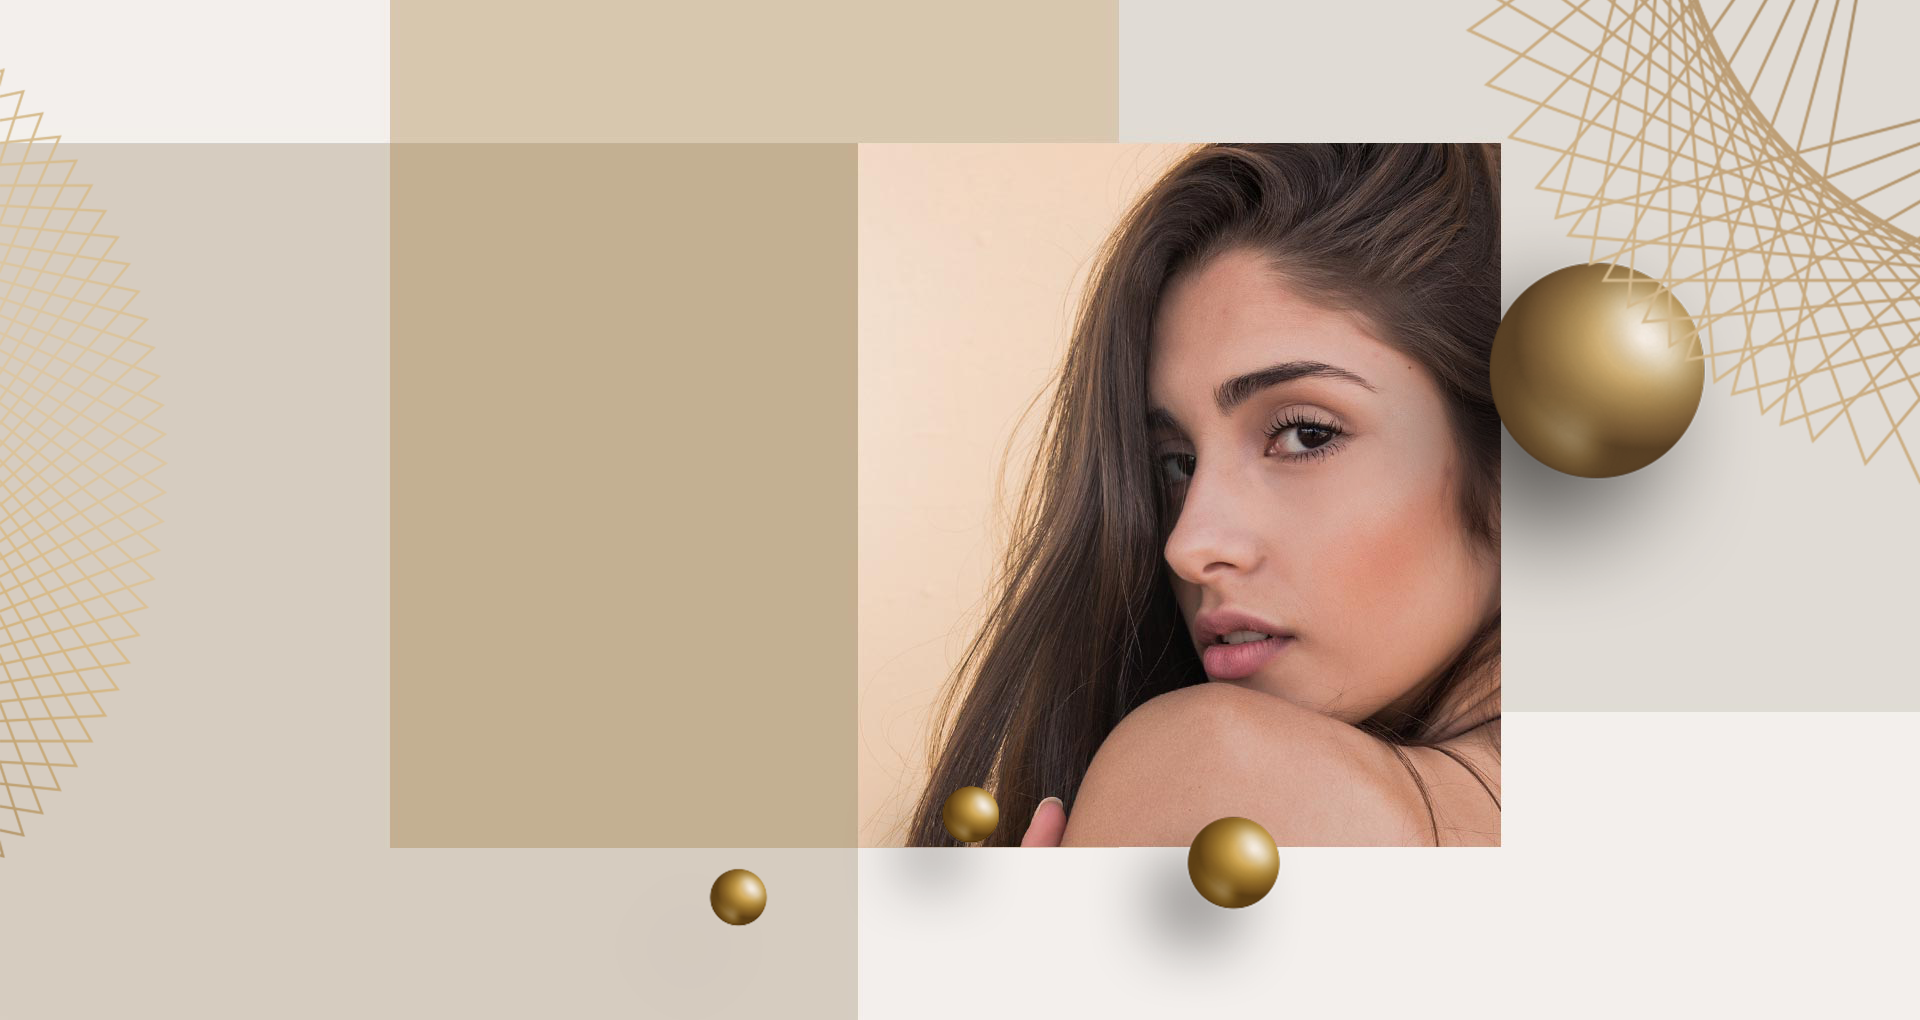
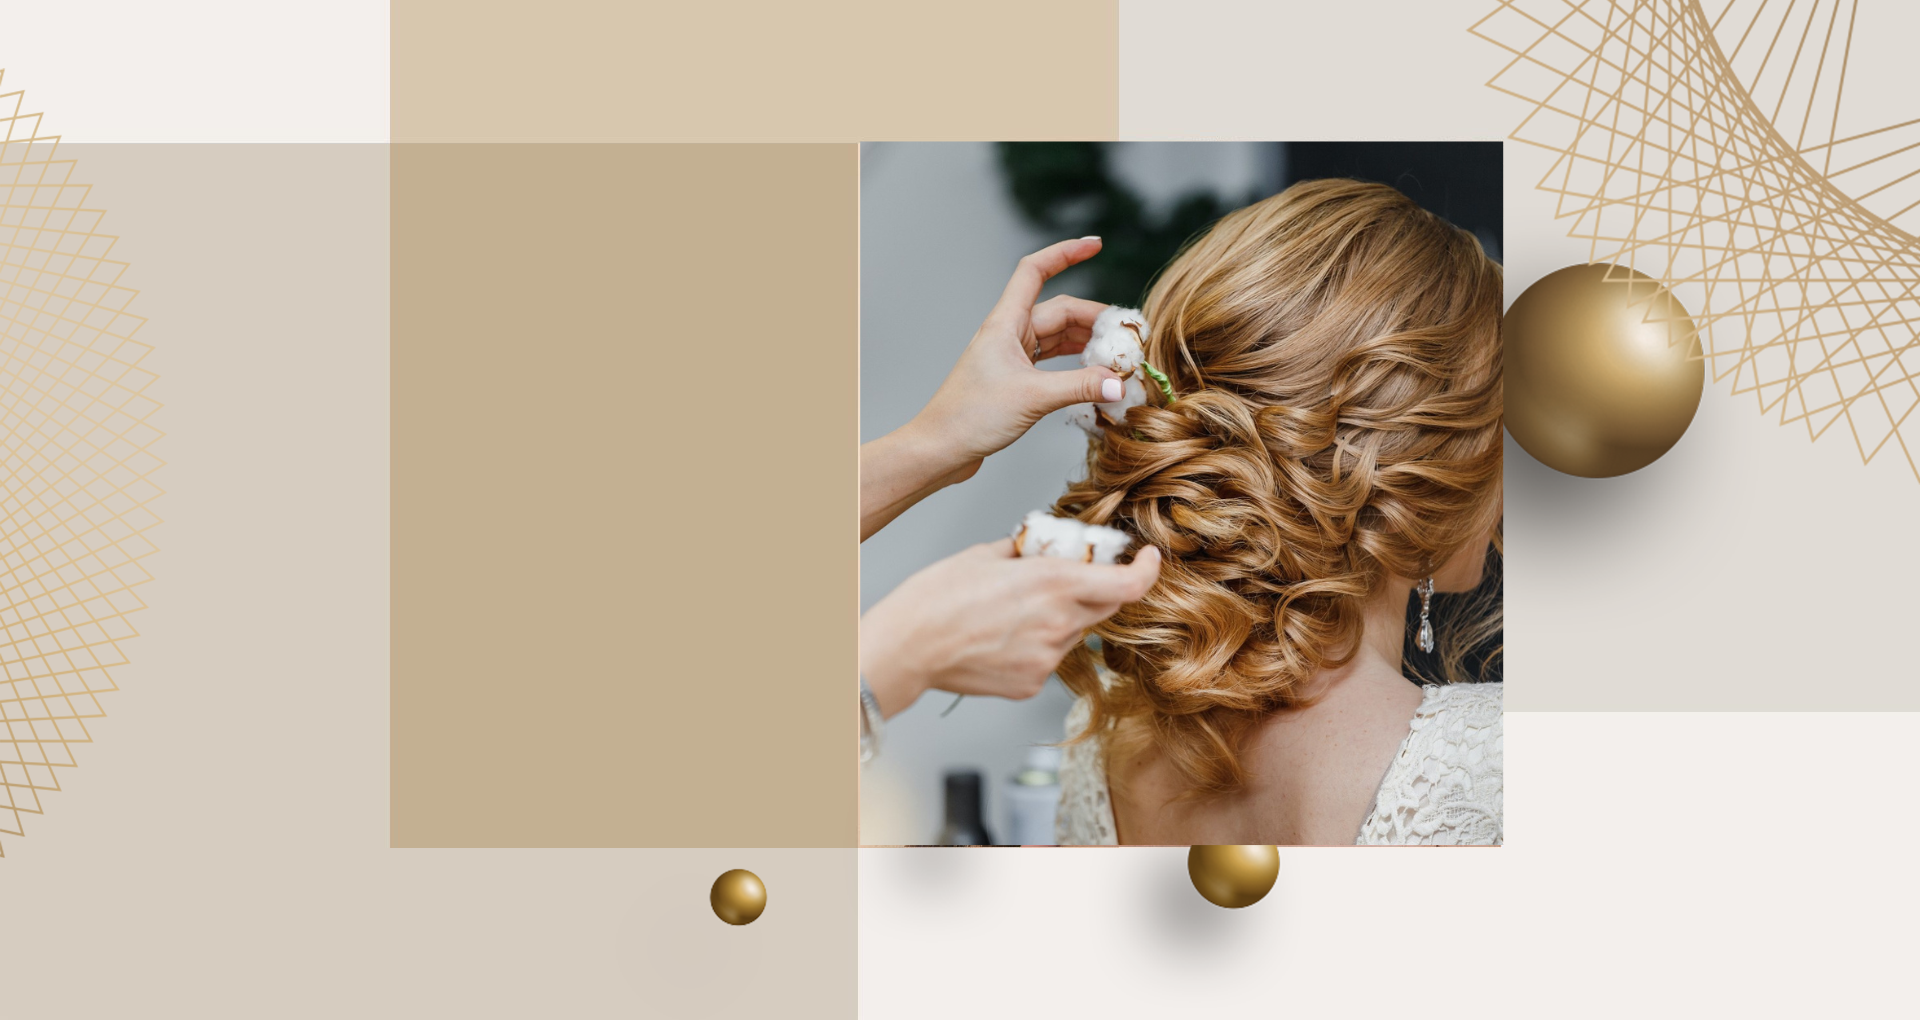
updated a bit

Changed region(s): [[0.4375, 0.1216, 0.7812, 0.851]]

diff --git a/index.html b/index.html
@@ -4,7 +4,7 @@
     <meta charset="UTF-8">
     <meta http-equiv="X-UA-Compatible" content="IE=edge">
     <meta name="viewport" content="width=device-width, initial-scale=1.0">
-    <title>Responsive Hair Dresser Website</title>
+    <title>WAkeup & Hairup</title>
     <link rel="stylesheet" href="https://cdnjs.cloudflare.com/ajax/libs/font-awesome/5.15.4/css/all.min.css">
 
     <link rel="stylesheet" href="css/style.css">
@@ -19,7 +19,7 @@
            <div id="close-navbar" class="fas fa-times"></div>
            <a href="#home">home</a>
            <a href="#about">about</a>
-           <a href="#services">services</a>
+           <a href="./service.html">services</a>
            <a href="#styles">styles</a>
            <a href="#pricing">pricing</a>
            <a href="#blog">blogs</a>
@@ -85,45 +85,6 @@
 
 <!-- services -->
 
-<section class="services" id="services">
-
-    <h1 class="heading">premium services</h1>
-
-    <div class="box-container">
-
-        <div class="box">
-            <img src="images/services-1.jpg" alt="">
-            <div class="content">
-                <h3>Hair styling</h3>
-            </div>
-        </div>
-
-        <div class="box">
-            <img src="images/services-2.jpg" alt="">
-            <div class="content">
-                <h3>wedding service </h3>
-            </div>
-        </div>
-
-        <div class="box">
-            <img src="images/services-3.jpg" alt="">
-            <div class="content">
-                <h3>manly haircut</h3>
-            </div>
-        </div>
-
-        <div class="box">
-            <img src="images/services-4.jpg" alt="">
-            <div class="content">
-                <h3>beard trimming</h3>
-            </div>
-        </div>
-
-    </div>
-
-</section>
-
-<!-- services end -->
 
 <!-- styles -->
 
@@ -289,43 +250,6 @@
 
 <!-- blog end-->
 
-<!-- visit -->
-
-<section class="visit" id="visit">
-
-    <h1 class="heading"> book a visit </h1>
-
-        <div class="row">
-    
-            <form action="">
-                <h3>book your first visit today</h3>
-                <div class="inputBox">
-                    <input type="text" placeholder="Your name">
-                </div>
-                <div class="inputBox">
-                    <input type="email" placeholder="Your e-mail">
-                </div>
-                <div class="inputBox">
-                    <input type="text" placeholder="Subject">
-                </div>
-                <div class="inputBox">
-                    <input type="text" placeholder="Message">
-                </div>
-    
-    
-                <input type="submit" value="Send A Message" class="btn">
-            </form>
-    
-            <div class="image">
-                <img src="images/contact.png" alt="">
-            </div>
-            
-        </div>
-
-</section>
-
-<!-- visit end-->
-
 <!-- reviews -->
 
 <section class="review" id="review">
@@ -377,7 +301,7 @@
         </div>
 
     </div>
-
+9
 </section>
 
 <!-- reviews end -->
@@ -390,19 +314,19 @@
  
        <div class="box">
           <h3> Find us here </h3>
-          <p>Lorem ipsum dolor sit amet, consectetur adipisicing elit. Modi, voluptatem.</p>
+          <p>Green garden, Sankolige, Manglore</p>
           <div class="share">
              <a href="#" class="fab fa-facebook-f"></a>
              <a href="#" class="fab fa-twitter"></a>
-             <a href="#" class="fab fa-instagram"></a>
-             <a href="#" class="fab fa-linkedin"></a>
+             <a href="https://www.instagram.com/afrah_aziz15/?hl=en" class="fab fa-instagram"></a>
+             <a href="https://www.linkedin.com/in/afrah-abdul-aziz-5492ab234/?originalSubdomain=in" class="fab fa-linkedin"></a>
           </div>
        </div>
  
        <div class="box">
           <h3>contact us</h3>
-          <p>+61 (0) 3 8376 6284</p>
-          <a href="#" class="link">ninjashub4@gmail.com</a>
+          <p>+91 89714 53772</p>
+          <a href="#" class="link">afrahgreengarden@gmail.com</a>
        </div>
  
        <div class="box">
@@ -414,7 +338,7 @@
  
     </div>
  
-    <div class="credit"> created by <span>ninjashub</span> | all rights reserved! </div>
+    <div class="credit"> created by <span>Afrah</span> | all rights reserved! </div>
  
  </section>
 

diff --git a/service.html b/service.html
@@ -1,0 +1,109 @@
+<!DOCTYPE html>
+<html lang="en">
+<head>
+    <meta charset="UTF-8">
+    <meta name="viewport" content="width=device-width, initial-scale=1.0">
+    <title>services</title>
+    <link rel="stylesheet" href="./css/style.css">
+</head>
+<body>
+    <section class="header">
+
+        <a href="#" class="logo"> Hair dresser </a>
+     
+        <nav class="navbar">
+           <div id="close-navbar" class="fas fa-times"></div>
+           <a href="./index.html">home</a>
+           <a href="./index.html">about</a>
+           <a href="./index.html">styles</a>
+           <a href="./index.html">pricing</a>
+           <a href="./index.html">blogs</a>
+           <a href="./book.html">book a visit</a>
+           <a href="./index.html">review</a>
+        </nav>
+     
+        <div id="menu-btn" class="fas fa-bars"></div>
+     
+     </section>
+<!-- header -->
+
+    <section class="services" id="services">
+
+        <h1 class="heading">premium services</h1>
+    
+        <div class="box-container">
+    
+            <div class="box">
+                <img src="images/services-1.jpg" alt="">
+                <div class="content">
+                    <h3>Hair styling</h3>
+                </div>
+            </div>
+    
+            <div class="box">
+                <img src="images/services-2.jpg" alt="">
+                <div class="content">
+                    <h3>wedding service </h3>
+                </div>
+            </div>
+    
+            <div class="box">
+                <img src="images/services-3.jpg" alt="">
+                <div class="content">
+                    <h3>manly haircut</h3>
+                </div>
+            </div>
+    
+            <div class="box">
+                <img src="images/services-4.jpg" alt="">
+                <div class="content">
+                    <h3>beard trimming</h3>
+                </div>
+            </div>
+    
+        </div>
+    
+    </section>
+
+
+    <section class="footer">
+
+        <div class="box-container">
+     
+           <div class="box">
+              <h3> Find us here </h3>
+              <p>Green garden, Sankolige, Manglore</p>
+              <div class="share">
+                 <a href="#" class="fab fa-facebook-f"></a>
+                 <a href="#" class="fab fa-twitter"></a>
+                 <a href="https://www.instagram.com/afrah_aziz15/?hl=en" class="fab fa-instagram"></a>
+                 <a href="https://www.linkedin.com/in/afrah-abdul-aziz-5492ab234/?originalSubdomain=in" class="fab fa-linkedin"></a>
+              </div>
+           </div>
+     
+           <div class="box">
+              <h3>contact us</h3>
+              <p>+91 89714 53772</p>
+              <a href="#" class="link">afrahgreengarden@gmail.com</a>
+           </div>
+     
+           <div class="box">
+              <h3>localization</h3>
+              <p>230 Point of the Pines Dr <br>
+                Colorado Springs <br>
+                United States</p>
+           </div>
+     
+        </div>
+     
+        <div class="credit"> created by <span>Afrah</span> | all rights reserved! </div>
+     
+     </section>
+    
+    
+    
+    
+    
+    
+</body>
+</html>

diff --git a/book.html b/book.html
@@ -1,0 +1,106 @@
+<!DOCTYPE html>
+<html lang="en">
+<head>
+    <meta charset="UTF-8">
+    <meta name="viewport" content="width=device-width, initial-scale=1.0">
+    <title>book-A-visit</title>
+    <link rel="stylesheet" href="./css/style.css">
+</head>
+<body>
+    <section class="header">
+
+        <a href="#" class="logo"> Hair dresser </a>
+     
+        <nav class="navbar">
+           <div id="close-navbar" class="fas fa-times"></div>
+           <a href="./index.html">home</a>
+           <a href="./index.html">about</a>
+           <a href="./service.html">services</a>
+           <a href="./index.html">styles</a>
+           <a href="./index.html">pricing</a>
+           <a href="./index.html">blogs</a>
+           <a href="./index.html">review</a>
+        </nav>
+     
+        <div id="menu-btn" class="fas fa-bars"></div>
+     
+     </section>
+<!-- header -->
+    
+<!-- visit -->
+
+<section class="visit" id="visit">
+
+    <h1 class="heading"> book a visit </h1>
+
+        <div class="row">
+    
+            <form action="">
+                <h3>book your first visit today</h3>
+                <div class="inputBox">
+                    <input type="text" placeholder="Your name">
+                </div>
+                <div class="inputBox">
+                    <input type="email" placeholder="Your e-mail">
+                </div>
+                <div class="inputBox">
+                    <input type="text" placeholder="Subject">
+                </div>
+                <div class="inputBox">
+                    <input type="text" placeholder="Message">
+                </div>
+    
+    
+                <input type="submit" value="Send A Message" class="btn">
+            </form>
+    
+            <div class="image">
+                <img src="images/contact.png" alt="">
+            </div>
+            
+        </div>
+
+</section>
+
+<!-- visit end-->
+
+
+
+<section class="footer">
+
+    <div class="box-container">
+ 
+       <div class="box">
+          <h3> Find us here </h3>
+          <p>Green garden, Sankolige, Manglore</p>
+          <div class="share">
+             <a href="#" class="fab fa-facebook-f"></a>
+             <a href="#" class="fab fa-twitter"></a>
+             <a href="https://www.instagram.com/afrah_aziz15/?hl=en" class="fab fa-instagram"></a>
+             <a href="https://www.linkedin.com/in/afrah-abdul-aziz-5492ab234/?originalSubdomain=in" class="fab fa-linkedin"></a>
+          </div>
+       </div>
+ 
+       <div class="box">
+          <h3>contact us</h3>
+          <p>+91 89714 53772</p>
+          <a href="#" class="link">afrahgreengarden@gmail.com</a>
+       </div>
+ 
+       <div class="box">
+          <h3>localization</h3>
+          <p>230 Point of the Pines Dr <br>
+            Colorado Springs <br>
+            United States</p>
+       </div>
+ 
+    </div>
+ 
+    <div class="credit"> created by <span>Afrah</span> | all rights reserved! </div>
+ 
+ </section>
+
+
+
+</body>
+</html>
